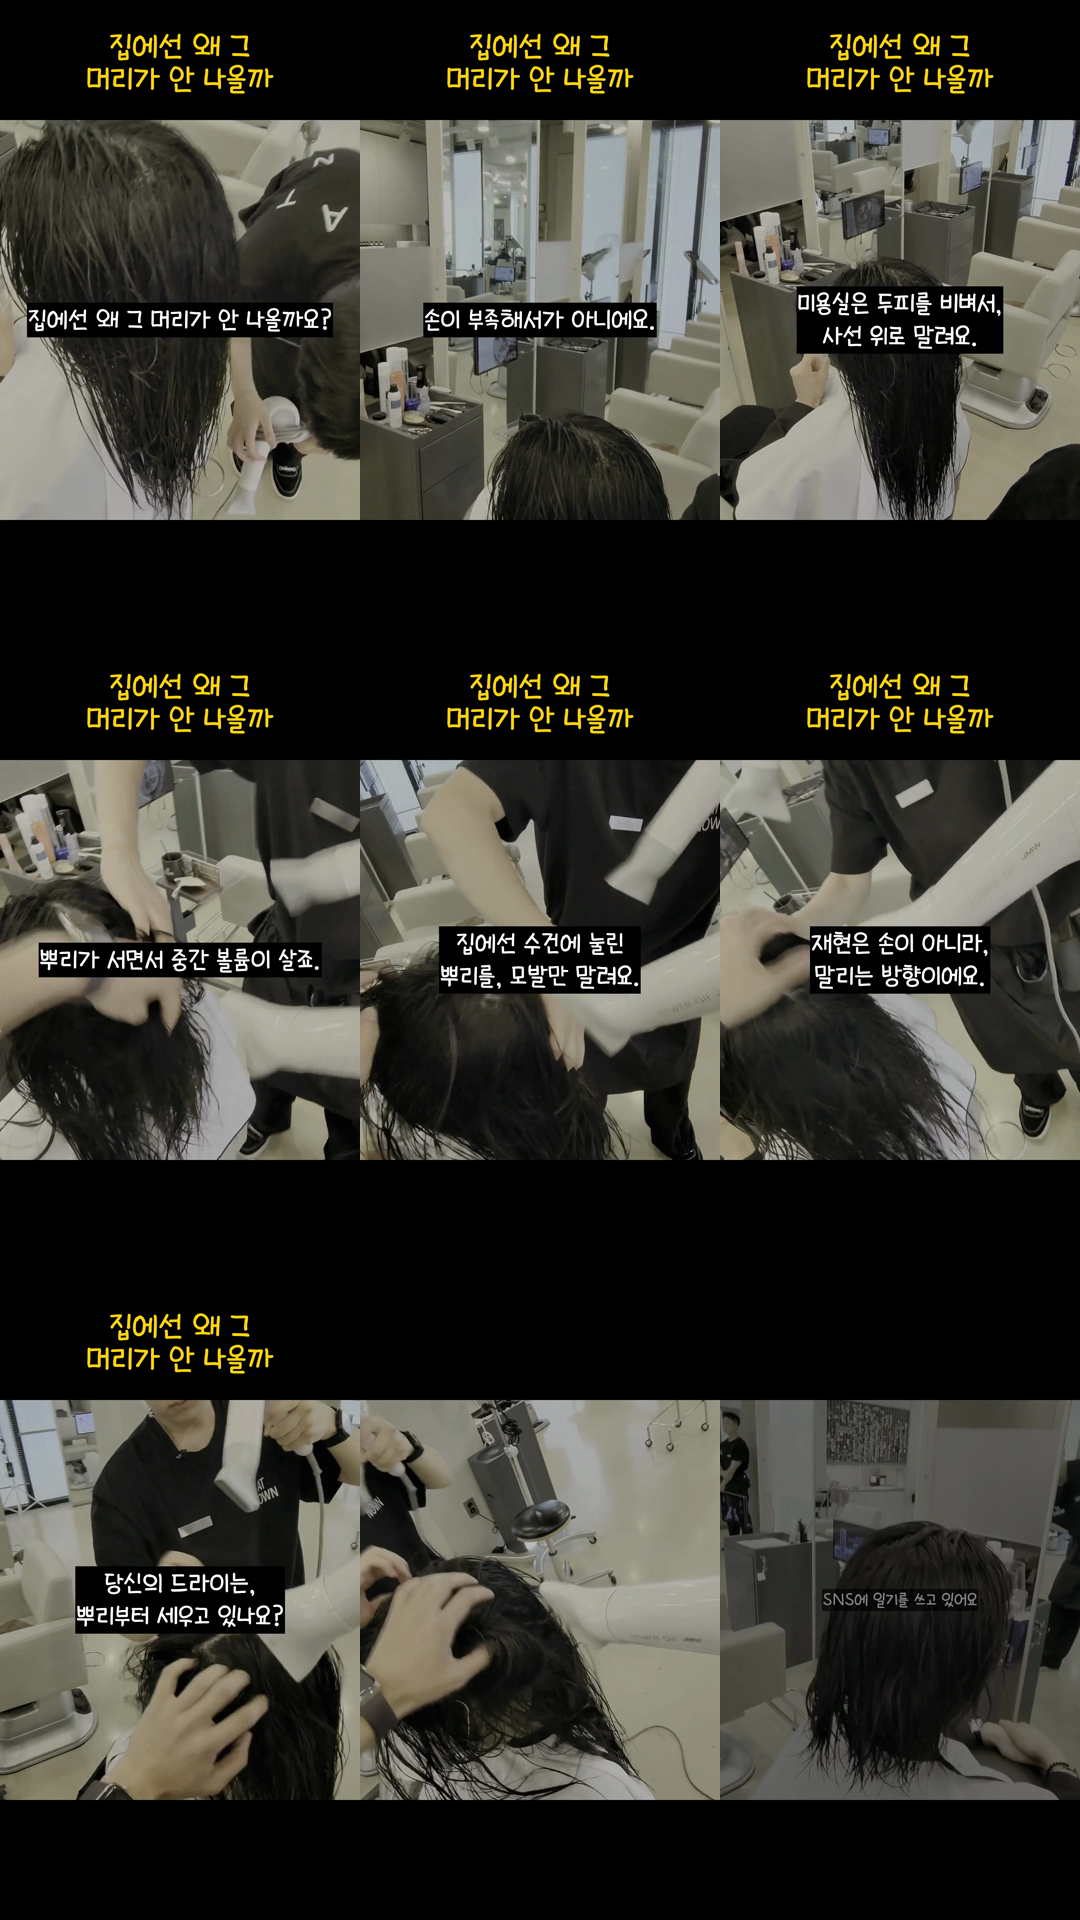
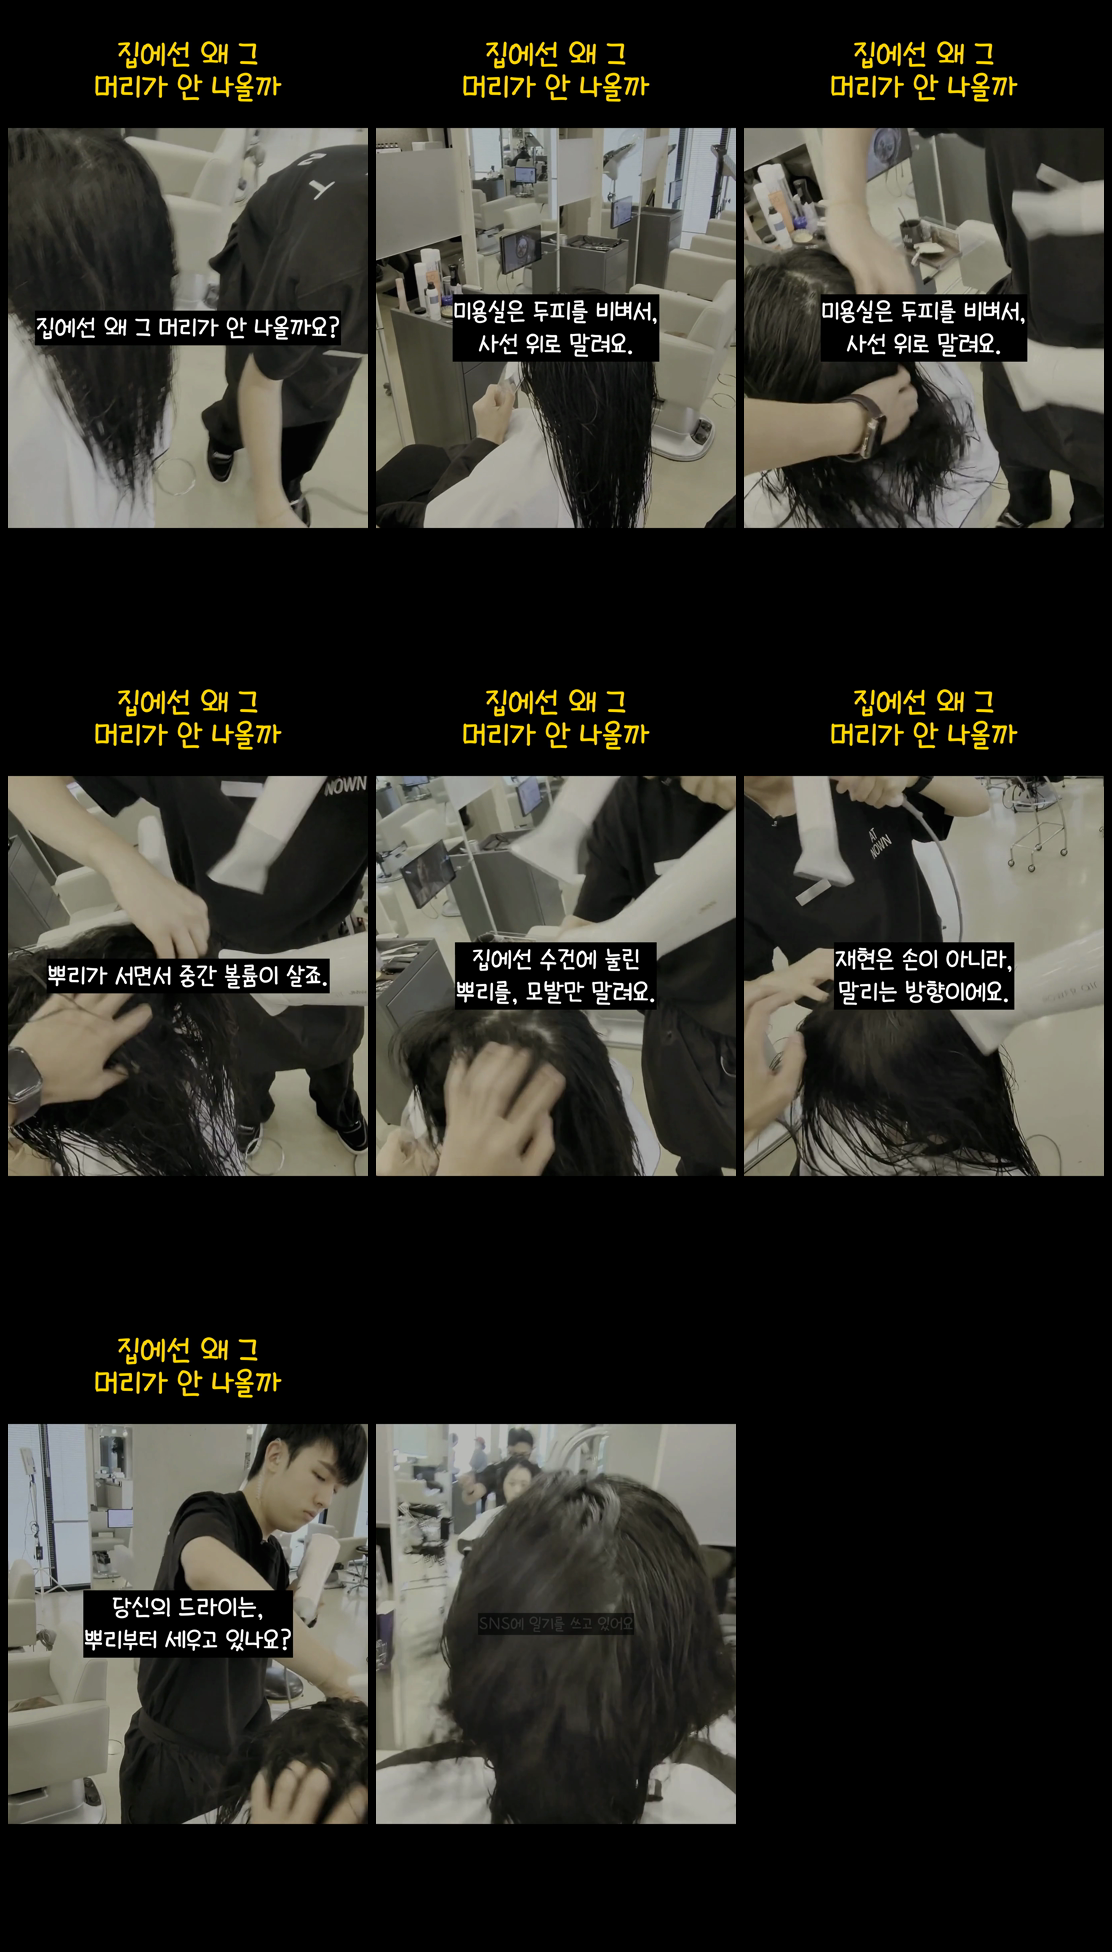
자동 렌더(본진 watcher): 대기잡 렌더+상태완료

diff --git a/content/shorts/2026-08-04/_RENDER_JOB.md b/content/shorts/2026-08-04/_RENDER_JOB.md
@@ -90,11 +90,7 @@
 **발행·예약 안 함.** 감독 프리뷰 게이트 유지. 시안까지만.
 
 ---
-<<<<<<< HEAD
 ## ▶▶ 재렌더 지시 (2026-08-04 · Cowork 판정 — 3편 전부 반려) — status: 완료(시안 수거·트렁크 반영 6dc0fb3)
-=======
-## ▶▶ 재렌더 지시 (2026-08-04 · Cowork 판정 — 3편 전부 반려) — status: 완료-자동렌더
->>>>>>> b6d6bdd (자동 렌더(본진 watcher): 대기잡 렌더+상태완료)
 > Cowork가 컨택트시트 3장 육안 판정. **3편 다 발행 불가 → 재렌더.** 렌더=코덱스(파일만), 커밋=샌드박스 밖 1회, 발행 금지 시안까지만. 텍스트 의미는 유지하되 아래 지정대로 수정.
 
 - **01 두피자외선 재렌더** — 3줄 자막 터짐(`방법은 간단해요. 그늘이나 모자, 두피용 자외선 스프레이. 가끔 가르마만 바꿔줘도 달라져요.` 등). **세그먼트 ≤26자로 쪼개 2줄 엄수.** 의미 유지, 문장만 분할. B롤·나머지 그대로 좋음.
@@ -120,3 +116,21 @@
 
 ### 🛑 예약 취소 지시 (Cowork 판정 — 코드방이 실행)
 - **무단 예약 2건 취소**: `B8urBGnlwOI`(8/5 11:00 KST), `3_MJ1Hec0Hw`(8/5 16:00 KST). 근거: ①감독 승인 없이 자동으로 걸린 건(게이트 위반) ②지금 재렌더 대상인 3줄 하자 버전. → **유튜브 OAuth 있는 코드방이 예약 삭제/비공개 처리.** 새 통과본은 감독 판정 후 재예약.
+
+---
+## 🎬 오늘 밤 디스패치 대상 (2026-08-05 나이틀리 · 이 블록이 최신 지시. 위 섹션은 전부 이력)
+> **렌더할 것은 딱 2편: `04`, `06`.** 다른 편(01·02·03)은 이미 처리됨 → **손대지 마라.**
+> `05_가르마_인상.txt` 는 **status: 보류(B롤 스캔중) → 렌더 금지.**
+
+- **04 `04_재현은_방향.txt`** — 컬러. `--preset style_preset_v9`. B롤 = 드라이브 인트레이 실사 2개 **교차**:
+  `~/Library/CloudStorage/GoogleDrive-cksghrj22@gmail.com/내 드라이브/앳나운_영상/코드방_B롤_인트레이/IMG_2199.MOV` (뿌리부터 드라이) +
+  `.../IMG_2194.MOV` (뒷머리 드라이). 마네킹·흐릿컷·억지 애니 금지. verify는 `--color --drawtext`.
+- **06 `06_작심삼일_환경.txt`** — **흑백(grade bw) 메시지형.** 컬러로 스왑하지 마라.
+  verify에 **`--color` 붙이지 말 것**(흑백이라 SATAVG 검사에서 당연히 걸린다). `--drawtext` 만.
+  B롤 불요(텍스트가 주인공). 필요하면 매장 광각 흑백 최소한만.
+
+공통 게이트(하나라도 어기면 시안 아님):
+- 1080×1920 · dim25% · 교보손글씨(폴백 금지) · **자막 최대 2줄·세그먼트 ≤26자(화면 밖 금지)** · 아웃트로 프레임 안 잘림 · CTA금지 · 길이 24s 이상.
+- **FAIL 이면 억지 통과 금지.** 검사기 수정·규격 완화 금지. 사유만 적고 그 편 중단.
+- **발행·예약 절대 금지.** 시안까지만. **git 금지**(pull·commit·push·clone 전부). 커밋은 클로드가 샌드박스 밖에서.
+- 컨택트시트 PNG(6~9프레임, 자막 보이게)를 `<출력폴더>/contact/` 에 생성.
